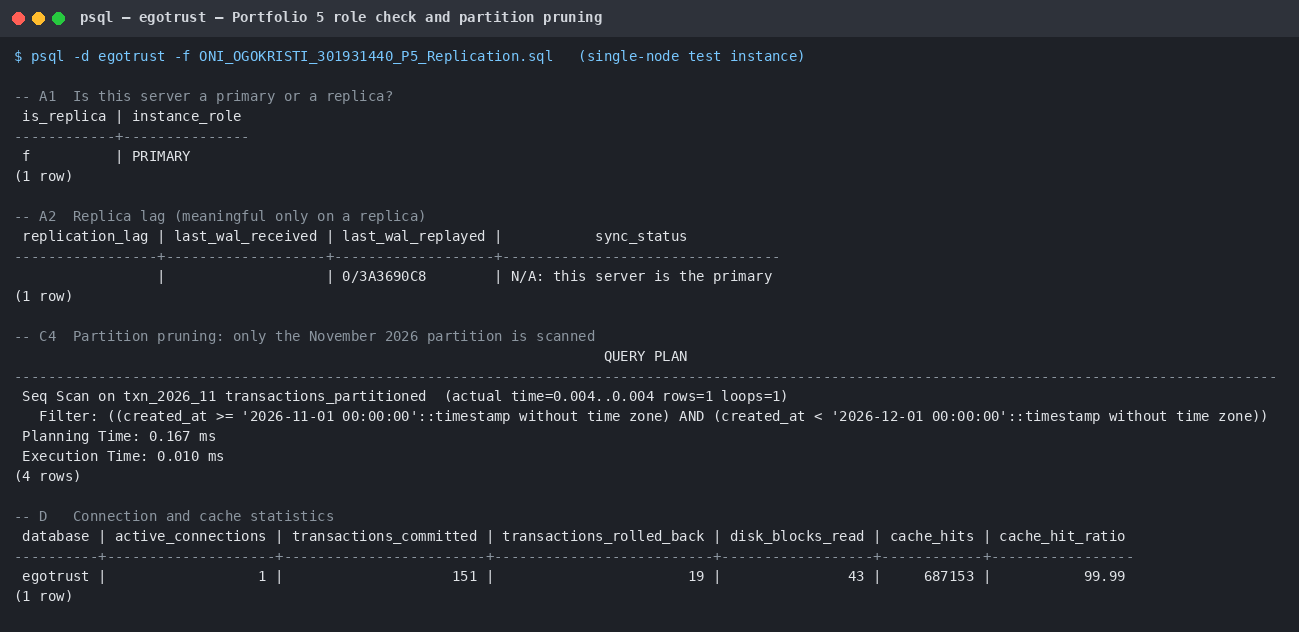
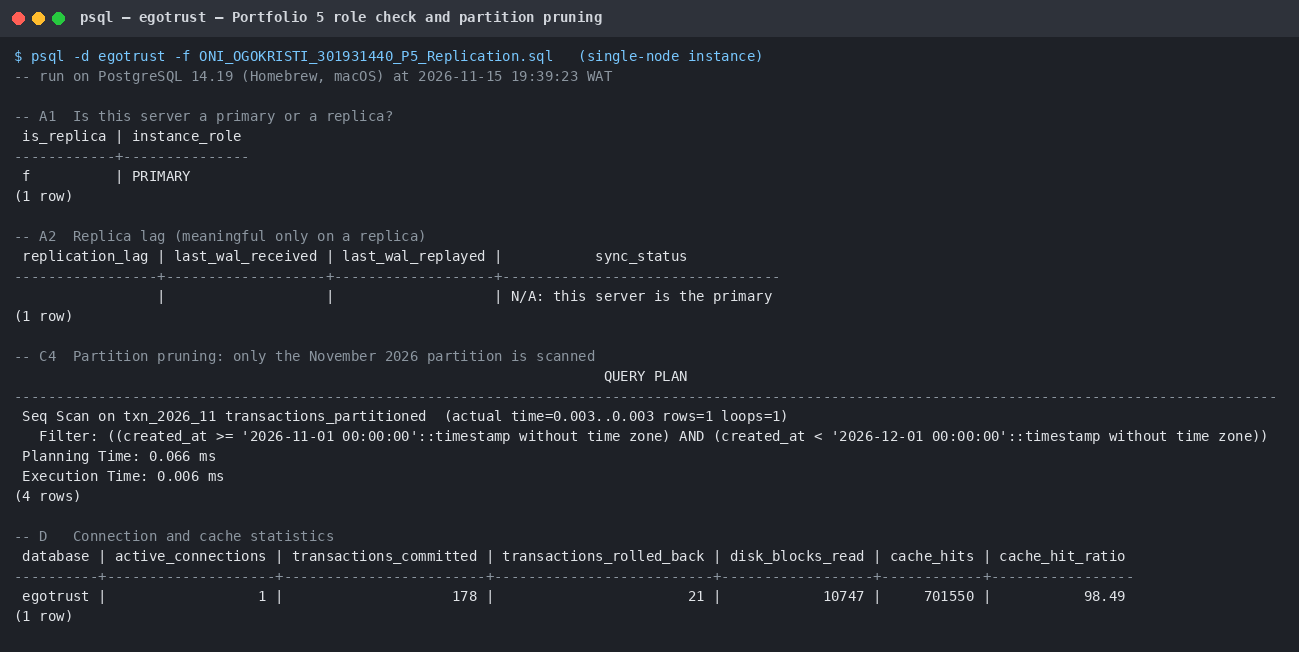
Portfolio 5: replication checks and partition pruning output from my own run

diff --git a/portfolio-5-distributed-cloud/ONI_OGOKRISTI_301931440_P5_README.md b/portfolio-5-distributed-cloud/ONI_OGOKRISTI_301931440_P5_README.md
@@ -10,7 +10,7 @@
 
 ## Overview
 
-This portfolio proposes how EgoTrust's databases would scale to a distributed, cloud-hosted environment on Amazon Web Services (AWS). It covers replication, sharding, the CAP theorem, data residency and a cloud deployment architecture. This is a **design exercise**: no cloud resources were provisioned and no failover test was run. The replication-monitoring and partitioning SQL **was** run on a single PostgreSQL 16 instance (evidence below).
+This portfolio proposes how EgoTrust's databases would scale to a distributed, cloud-hosted environment on Amazon Web Services (AWS). It covers replication, sharding, the CAP theorem, data residency and a cloud deployment architecture. This is a **design exercise**: no cloud resources were provisioned and no failover test was run. The replication-monitoring and partitioning SQL **was** run on a single PostgreSQL 14.19 instance on my Mac (evidence below; raw output in [ONI_OGOKRISTI_301931440_P5_Output.txt](ONI_OGOKRISTI_301931440_P5_Output.txt)).
 
 | File | Contents |
 |---|---|
